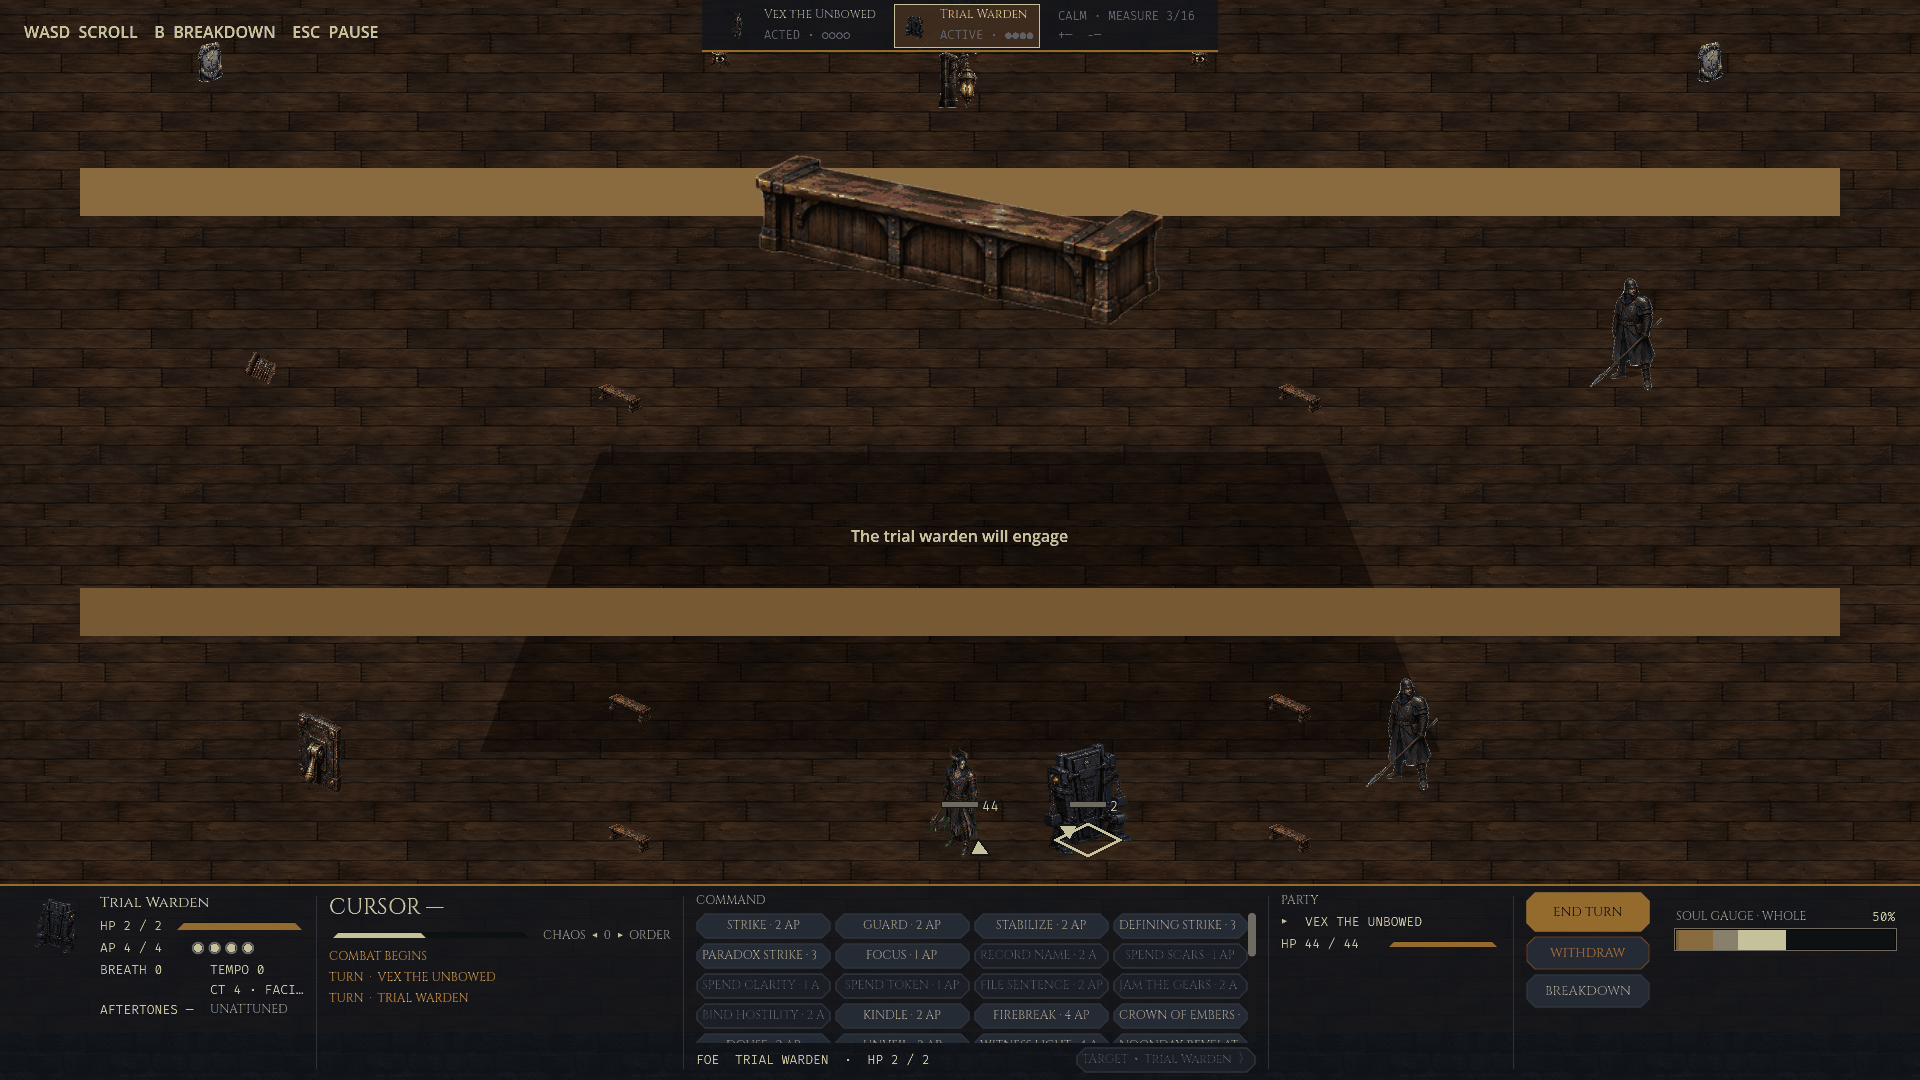
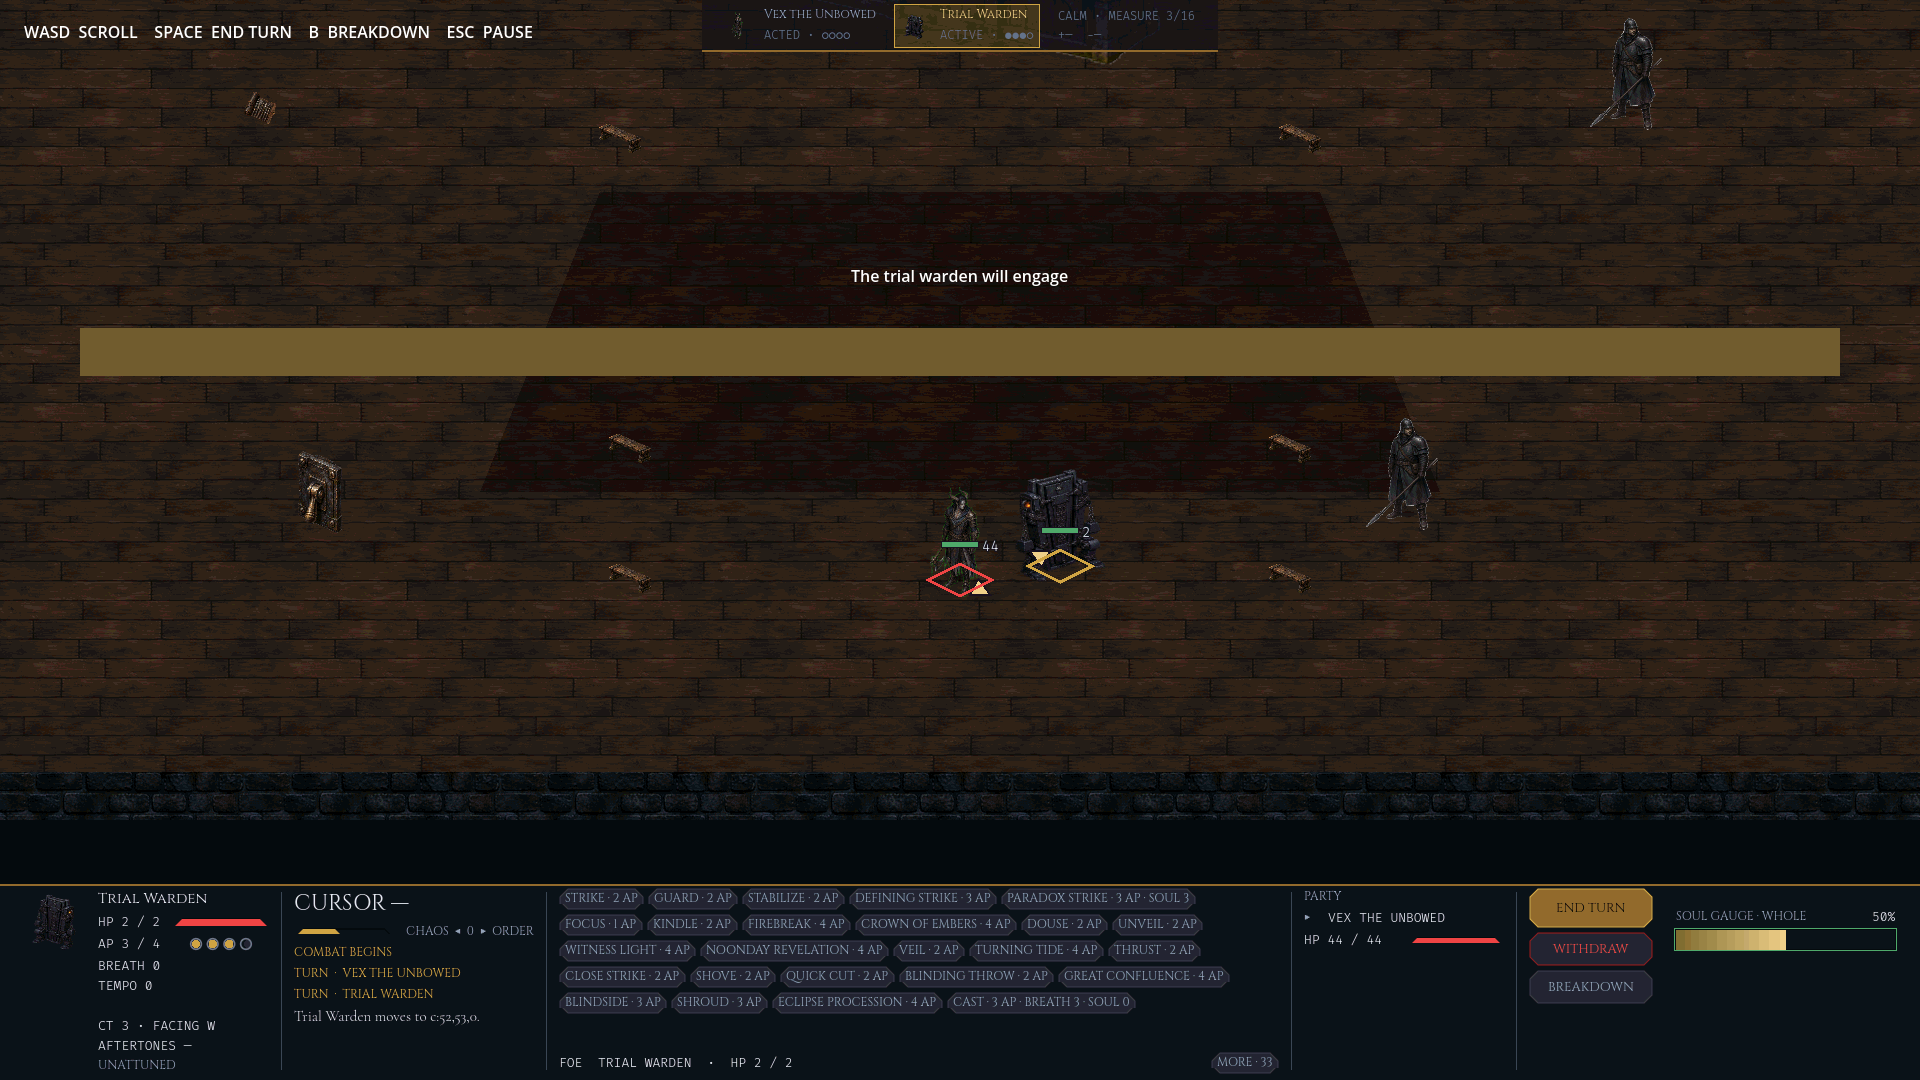
QA: re-render combat one-bar captures, add MORE-open and 1366x768 frames
Eight Xvfb frames at 1920x1080 (08 rendered at 1366x768) with .import
sidecars; README covers the review items, the frame table, region map
and honest limits. Capture script adds 07-more-open and
08-1366x768-player-turn.

diff --git a/docs/qa/combat-one-bar-2026-11-01/README.md b/docs/qa/combat-one-bar-2026-11-01/README.md
@@ -1,7 +1,8 @@
 # Combat presentation: one bar, both modes (owner ruling 2026-11-01)
 
 Branch: `claude/combat-one-bar` (based on `main` @ `9e1ee0f9`). Lower Trial Hall warden fight,
-1920x1080, as the player sees it.
+1920x1080 logical canvas, as the player sees it. Frames 01–08 are the review pass of
+2026-11-01 (command column reworked, fighters kept clear of the HUD, Space ends the turn).
 
 **Ruling under test** (`docs/owner-decisions.md` §5, "Combat presentation", 2026-11-01):
 combat does not go to a separate screen. The field HUD's single bottom bar grows its combat
@@ -9,11 +10,27 @@ parts on combat start and retracts them on combat end; the only top element is a
 turn-order strip; detail lives on hover, the full breakdown behind a toggle; the field camera
 follows the actor without reframing.
 
+**Lead review (2026-11-01), both blockers addressed in these frames:**
+
+1. *Command column.* The ready commands sit in a flow at full label width, catalog order,
+   no scrolling on a normal turn (25 ready actions in five 22 px rows). Nothing is clipped;
+   `clip_text` is off and every button is as wide as its label. The locked rest (39 here)
+   waits behind `MORE · 39`, which lists each one disabled beside its lock reason; `LESS`
+   folds them away. The AIM row takes the FOE readout's place on the footer line only while
+   an aimed action quotes a hovered enemy. The unit plate stacks its stats in one column so
+   `CT 4 · FACING E` reads whole.
+2. *Fighters and the HUD.* The camera's top and bottom limits grow by the strip and bar
+   insets plus a 64 px clearance while combat runs, so the room's south wall scrolls up clear
+   of the bar (the void below the wall is the room's edge, not map art). A body is framed only
+   when its sprite and cell diamond sit inside the open window with that clearance; the
+   acting unit's turn, and an action beat with its target, pan to satisfy it. Zoom and side
+   limits never change; the limits return (smoothed) on combat end.
+
 **Verdict from these frames: met.** The map stays full-screen in both modes. Nothing docks
 left or right. The bar grows from 84 px to 196 px and back. The strip is 52 px tall and
-shrink-wraps to its two markers plus the weather chip (523 px wide, centred). Hover gives
-name / HP / hit % / damage in one tooltip. The breakdown is closed until asked for and opens
-as a 496x560 popover above the bar's right end.
+shrink-wraps to its two markers plus the weather chip. Hover gives name / HP / hit % / damage
+in one tooltip. The breakdown is closed until asked for and opens as a 496x560 popover above
+the bar's right end.
 
 ## How the frames were made
 
@@ -29,38 +46,43 @@ are keyed to presented beats, not wall-clock offsets. Full frames are quantised 
 | Frame | Shows | Read it for |
 |---|---|---|
 | `01-exploration-bar` | Exploration: 84 px bar with the objective lines, Vex's HP/Breath readout and the soul gauge. Field hints across the top. | The baseline the combat bar grows out of. |
-| `02-combat-start-player-turn` | Combat begins, Vex's turn. Same bar at 196 px: plate (portrait, HP, AP pips, Breath/Tempo/Scars/CT/Aftertones) · cursor strip, balance meter and message window (`COMBAT BEGINS`, `TURN · VEX THE UNBOWED`) · COMMAND grid with AP costs and lock states · PARTY · END TURN / WITHDRAW / BREAKDOWN · soul gauge. Thin turn strip at top centre with Vex's marker lit. Map untouched behind it; camera unchanged. | Ruling 1 (one bar), ruling 3 (no reframing), ruling 4 (log line). |
-| `03-enemy-turn` | Mid-beat on the warden's turn. Strip marker moves to Trial Warden (`ACTIVE`), Vex reads `ACTED`. Plate follows the presented actor (Trial Warden, HP 2/2, AP 3/4). Message window carries the turn cue and the move line. Camera stays put because the warden is already on screen (D9 rule). | Ruling 1 (strip highlights the active actor), ruling 3 (pan only when needed). |
-| `04-enemy-hover-tooltip` | Cursor over the warden on Vex's turn. Tooltip at the body: `Trial Warden / HP 2 / 2 / ORDINARY · HIT 70% · 9 DMG`. AIM row shows on the bar (ORDINARY, ARM, HEAD, LEG, THROAT, TORSO). Cursor strip reads `(52,53) · HEIGHT 0 · TRIAL WARDEN`. | Ruling 2, hover half. |
+| `02-combat-start-player-turn` | Combat begins, Vex's turn. The camera has panned the pair up into the open window; the south wall sits clear above the bar. Same bar at 196 px: plate (portrait, HP, AP pips, one-column Breath/Tempo/Scars/CT·Facing/Aftertones/Element) · cursor strip, balance meter and message window (`COMBAT BEGINS`, `TURN · VEX THE UNBOWED`) · 25 ready commands in five rows at full width · footer `FOE TRIAL WARDEN · HP 2 / 2` and `MORE · 39` · PARTY · END TURN / WITHDRAW / BREAKDOWN · soul gauge. Thin turn strip at top centre with Vex's marker lit. The strikes are locked on this first turn (the warden is not yet in reach), so the row starts at GUARD. | Rulings 1, 3, 4; review item 1 (no clipping, no scrolling) and item 2 (clear of the bar). |
+| `03-enemy-turn` | Mid-beat on the warden's turn. Strip marker moves to Trial Warden (`ACTIVE`), Vex reads `ACTED`. Plate follows the presented actor (Trial Warden, HP 2/2, AP 3/4). Both bodies stay framed; no pan was needed. | Ruling 1 (strip highlights the active actor), ruling 3 (pan only when needed), review item 2. |
+| `04-enemy-hover-tooltip` | Cursor over the warden on Vex's second turn (the warden now adjacent, so STRIKE / DEFINING STRIKE / PARADOX STRIKE / CLOSE STRIKE / SHOVE / QUICK CUT are ready). Tooltip at the body: `Trial Warden / HP 2 / 2 / ORDINARY · HIT 70% · 9 DMG`. The footer line now reads `AIM [ORDINARY] ARM HEAD LEG THROAT TORSO` with `MORE · 33`; the ready rows above are unchanged and still unscrolled. | Ruling 2, hover half; review item 1 (the AIM row costs no command rows). |
 | `05-breakdown-open` | After pressing BREAKDOWN (or B). One popover, bottom-right above the bar: forecast card, hit-chance breakdown, attunement wheel, power formula, then tactical data scrolling below. Bar and strip unchanged beneath it; the popover does not overlap the bar. | Ruling 2, toggle half. |
-| `06-after-combat-bar-retracted` | Encounter resolved and continued. The bar is back at 84 px with the exploration readout; strip, popover and combat parts are gone; the warden lies where it fell. | Ruling 1, retract half. |
+| `06-after-combat-bar-retracted` | Encounter resolved and continued. The bar is back at 84 px with the exploration readout; strip, popover and combat parts are gone; the camera limits are the room's again. | Ruling 1, retract half. |
+| `07-more-open` | `MORE · 33` pressed (reads `LESS`). The ready rows stay on top; below them the locked commands list one per row, disabled, each beside its lock reason (`RECORD NAME · 2 AP — Vex the Unbowed cannot use that class action.` first). The list scrolls inside the bar; the bar does not grow. | Review item 1 (every command reachable, lock reasons shown). |
+| `08-1366x768-player-turn` | The same turn with the window at 1366x768. The project stretches its 1920x1080 canvas (`canvas_items`, keep aspect), so this is the identical layout at 0.71 scale: nothing reflows, nothing clips, text is 71 % size. | Owner answer 2: minimum width. |
 
 The entry cue (vignette flash and the combat-start sound) is not capturable as a still; its
 timing is pinned in `test/integration/test_combat_bar.gd` (vignette gone and bar at full
 height within 0.5 s; no motion and no vignette under reduced motion; `COMBAT BEGINS` first in
-the window; `CombatAudio` mounted).
+the window; `CombatAudio` mounted). Space ending the turn is pinned there too (player's turn
+only; blocked while a text field or the breakdown popover holds focus).
 
 ## Where the old regions went
 
 | Old `battle.tscn` region | New home |
 |---|---|
-| Unit plate (top-left) | Left end of the bar (`ActiveUnitPlate`, compact two-column stats). |
+| Unit plate (top-left) | Left end of the bar (`ActiveUnitPlate`, one-column stats). |
 | CT timeline (top) | Thin turn strip (`TurnStrip/StripRow/TurnTimeline`), one row of portrait markers. |
-| Weather chip (top-right) | Right end of the turn strip. |
-| Tactical / forecast panel (docked right) | AIM row on the bar's command column; forecast card and breakdown inside the `TacticalPopover`. |
+| Weather chip (top-right) | Right end of the turn strip (owner: keep it there). |
+| Tactical / forecast panel (docked right) | AIM row on the command footer while aiming; forecast card and breakdown inside the `TacticalPopover`. |
 | Tactical data (party panel) | `TacticalPopover`, below the forecast breakdown. |
-| Command dock (bottom-left) | Bar command column (`CombatBar/CommandColumn`). |
-| Foe / log panel (bottom-centre) | Bar message window (`CombatBar/LogColumn/MessageLog`) and FOE readout under the command grid. |
+| Command dock (bottom-left) | Bar command column (`CombatBar/CommandColumn`): ready flow, `MORE` list, footer. |
+| Foe / log panel (bottom-centre) | Bar message window (`CombatBar/LogColumn/MessageLog`) and the FOE readout on the command footer. |
 | Party panel (bottom-right) | Bar party column (`CombatBar/PartyColumn`). |
 | Stage window / reframe / floor tint | Removed. Stage spans the viewport minus bar and strip; reachable tint shows only while a pointer action is live. |
 
 ## Remaining limits (honest)
 
-- Long command labels clip at 4 columns (`DEFINING STRIKE · 3`, `SPEND CLARITY · 1 A`); the
-  full name, cost and lock reason are in each button's tooltip. A 3-column grid would fit them
-  at the cost of a taller bar.
-- The plate's `CT 4 · FACING E` and the cursor strip's occupant name ellipsise at 280 px.
-- The combat-start sound reuses `impactBell_heavy_002.ogg` (`CombatAudio.CUE_COMBAT_START`)
-  until a dedicated cue is authored.
-- Frames are 1920x1080 only; the bar's fixed column widths (280 / 280 / 560 / 220 / 124) fit a
-  1626 px interior and have not been checked below 1600 px wide.
+- Five rows of ready commands fit at 720 px; a kit with many more ready actions than this
+  party's 25 would scroll the ready flow (the `MORE` list always scrolls). The footer line
+  holds AIM (six locations) + MORE + TARGET with about 16 px to spare in a two-enemy fight;
+  TARGET is hidden with a single enemy.
+- 1366x768 is a uniform 0.71 scale of the 1920x1080 layout, so 12 px labels render at about
+  8.5 px there. Readability at that size is the owner's call; nothing clips.
+- The combat-start sound reuses `impactBell_heavy_002.ogg` (`CombatAudio.CUE_COMBAT_START`),
+  per the owner's answer.
+- The two flat tan bands across the Trial Hall are map art present in exploration too; the
+  lead is handling them separately.
